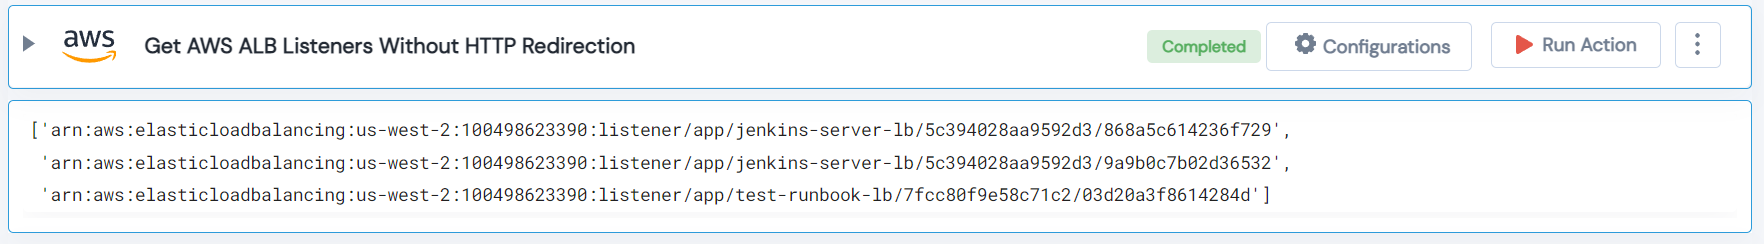
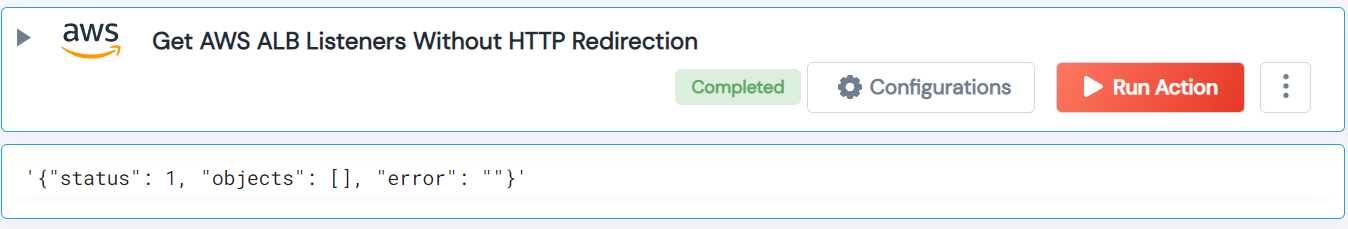
Check Action: Get AWS ALB Listeners Without HTTP Redirection

diff --git a/AWS/legos/aws_get_alb_listeners_without_http_redirect/aws_get_alb_listeners_without_http_redirect.py b/AWS/legos/aws_get_alb_listeners_without_http_redirect/aws_get_alb_listeners_without_http_redirect.py
@@ -3,6 +3,7 @@
 ##
 from typing import Optional, Tuple
 from pydantic import BaseModel, Field
+from unskript.legos.utils import CheckOutput, CheckOutputStatus
 from unskript.connectors.aws import aws_get_paginator
 from unskript.legos.aws.aws_list_all_regions.aws_list_all_regions import aws_list_all_regions
 from unskript.legos.aws.aws_list_application_loadbalancers.aws_list_application_loadbalancers import aws_list_application_loadbalancers
@@ -19,11 +20,11 @@ class InputSchema(BaseModel):
 def aws_listeners_without_http_redirect_printer(output):
     if output is None:
         return
-    pprint.pprint(output)
+    pprint.pprint(output.json())
 
 
-def aws_listeners_without_http_redirect(handle, region: str = "") -> Tuple:
-    """aws_get_auto_scaling_instances List of Dict with instanceId and attached groups.
+def aws_listeners_without_http_redirect(handle, region: str = "") -> CheckOutput:
+    """aws_listeners_without_http_redirect List of ALB listeners without HTTP redirection.
 
         :type handle: object
         :param handle: Object returned from task.validate(...).
@@ -31,23 +32,24 @@ def aws_listeners_without_http_redirect(handle, region: str = "") -> Tuple:
         :type region: string
         :param region: Region to filter ALB listeners.
 
-        :rtype: Tuple of execution result and ALB listeners without HTTP redirection.
+        :rtype: CheckOutput of status and result of ALB listeners without HTTP redirection.
     """
     result = []
     all_regions = [region]
     alb_list = []
+    if not region:
+        all_regions = aws_list_all_regions(handle)
     try:
-        if not region:
-            all_regions = aws_list_all_regions(handle)
         for reg in all_regions:
             alb_dict = {}
-            loadbalancer_arn = aws_list_application_loadbalancers(handle, region)
+            loadbalancer_arn = aws_list_application_loadbalancers(handle, reg)
             alb_dict["region"] = reg
             alb_dict["alb_arn"] = loadbalancer_arn
             alb_list.append(alb_dict)
     except Exception as error:
-        pass
-
+        return CheckOutput(status=CheckOutputStatus.RUN_EXCEPTION,
+                               objects=[],
+                               error=error.__str__())
     for alb in alb_list:
         try:
             ec2Client = handle.client('elbv2', region_name=alb["region"])
@@ -68,12 +70,9 @@ def aws_listeners_without_http_redirect(handle, region: str = "") -> Tuple:
         except Exception as error:
             pass
 
-    execution_flag = False
-    if len(result) > 0:
-        execution_flag = True
-    output = (execution_flag, result)
-    
-    return output
+    return CheckOutput(status=CheckOutputStatus.SUCCESS,
+                       objects=result,
+                       error=str(""))
 
 
 

diff --git a/AWS/legos/aws_list_application_loadbalancers/aws_list_application_loadbalancers.py b/AWS/legos/aws_list_application_loadbalancers/aws_list_application_loadbalancers.py
@@ -32,11 +32,13 @@ def aws_list_application_loadbalancers(handle, region: str) -> List:
 
         :rtype: List with all the application loadbalancer ARNs
     """
-
-    ec2Client = handle.client('elbv2', region_name=region)
-    resp = aws_get_paginator(ec2Client, "describe_load_balancers", "LoadBalancers")
     result = []
-    for elb in resp:
-        if elb['Type'] == "application":
-            result.append(elb['LoadBalancerArn'])
+    try:
+        ec2Client = handle.client('elbv2', region_name=region)
+        resp = aws_get_paginator(ec2Client, "describe_load_balancers", "LoadBalancers")
+        for elb in resp:
+            if elb['Type'] == "application":
+                result.append(elb['LoadBalancerArn'])
+    except Exception as e:
+        pass
     return result

diff --git a/AWS/legos/aws_get_unhealthy_instances_from_asg/aws_get_unhealthy_instances_from_asg.py b/AWS/legos/aws_get_unhealthy_instances_from_asg/aws_get_unhealthy_instances_from_asg.py
@@ -28,7 +28,7 @@ def aws_filter_unhealthy_instances_from_asg(handle, region: str = "") -> CheckOu
         :type region: string
         :param region: AWS region.
 
-        :rtype: Tuple with execution result and list of unhealthy instances from ASG.
+        :rtype: CheckOutput with status and result of a list of unhealthy instances from ASG.
     """
     result = []
     all_regions = [region]
